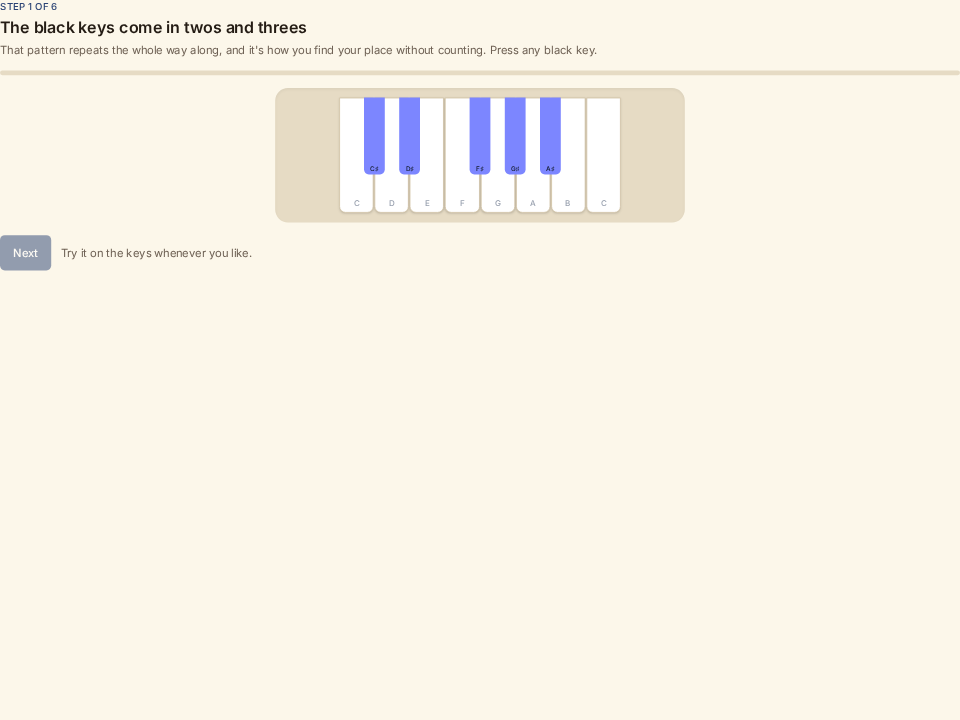
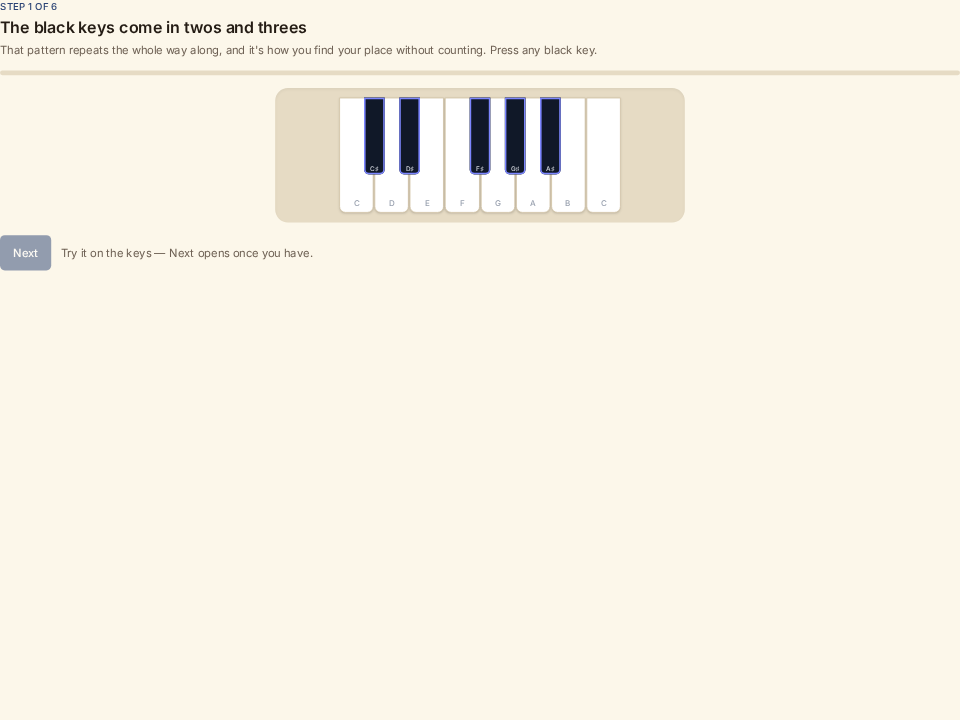
fix(today,keyboard): a real surprise, and a black key that stays black
Surprise me kept its seed in a ref that began at zero and rose only while the page
stayed mounted. It varied press to press within a visit and reset on every
arrival, so coming back from a piece offered that same piece again — the one
button whose whole promise is not knowing what you will get. Each press now draws
its own seed, the way every other surface here passes randomness into the pure
function that uses it.

An expected black key was filled with the next-note colour, which stops it being a
black key. That is tolerable mid-piece, where the key is being pointed at rather
than named, and wrong in the first lesson of all — it says "press any black key"
over a keyboard where the black keys have turned blue. The mark is a ring now, so
the instrument still looks like an instrument; the pale key name stays pale,
because the fill it had to contrast with is gone.

Changed region(s): [[0.4688, 0.1222, 0.5938, 0.2444], [0.375, 0.1222, 0.4375, 0.2444], [0.1562, 0.3361, 0.3125, 0.3667]]

diff --git a/app/components/features/homeToday.tsx b/app/components/features/homeToday.tsx
@@ -1,7 +1,7 @@
 // SPDX-FileCopyrightText: The Plinky Authors
 // SPDX-License-Identifier: AGPL-3.0-or-later
 
-import { type ReactNode, useEffect, useRef, useState } from "react";
+import { type ReactNode, useEffect, useState } from "react";
 import { useNavigate } from "react-router";
 import { arcadeConfig, currentArcadeLevel } from "../../../core/arcade";
 import { dailyNumber, todayKey } from "../../../core/daily";
@@ -325,7 +325,6 @@ export function HomeToday() {
     const known = useKnownPieces();
     const navigate = useNavigate();
     const [session, setSession] = useState<Session | null>(null);
-    const seedRef = useRef(0);
     // The heading names the moment the reader arrived, which only their own clock
     // knows. Both the prerendered document and the first client render say "Today", so
     // hydration matches; the greeting arrives a tick later, in place, on one line.
@@ -559,11 +558,15 @@ export function HomeToday() {
                 </ul>
                 <SurpriseButton
                     onClick={() => {
+                        // A fresh seed per press. It used to be a counter starting at
+                        // zero, held for as long as the page was mounted — so it rotated
+                        // while you stayed, and every arrival began at zero again. Coming
+                        // back from a piece meant being handed the same piece.
                         const pick = surprisePick(
                             session.surprise.catalogue,
                             session.surprise.grade,
                             session.surprise.mastered,
-                            seedRef.current++,
+                            Math.floor(Math.random() * 1_000_000),
                         );
                         if (pick) {
                             navigate(localizedHref(practiceHref(pick)));

diff --git a/app/components/ui/keyboard.tsx b/app/components/ui/keyboard.tsx
@@ -449,15 +449,19 @@ export function Keyboard({
             : lit.has(note)
               ? "translate-y-0.5 bg-key-held shadow-[0_0_14px_-3px] shadow-key-held"
               : expected.includes(note)
-                ? "bg-key-next"
+                // Ringed, not repainted. Filling a black key with the next-note colour
+                // stops it being a black key, which is fine mid-piece and wrong in the
+                // lesson that says "press a black key" — a beginner then hunts for
+                // something black and finds none.
+                ? `${theme.black} ring-2 ring-inset ring-key-next`
                 : theme.black;
     // A black key's name is pale because the key is nearly black — but every state that
     // means something (wrong, held, play this) fills it with a bright colour, and pale
     // grey on those is well under the contrast floor. The name follows the fill.
     const blackLabel = (note: number) =>
-        flash?.note === note || lit.has(note) || expected.includes(note)
-            ? "text-key-ink"
-            : "text-key-black-ink";
+        // The expected key keeps its black fill now, so its name keeps the pale ink that
+        // reads on black; only the states that flood the key with colour change it.
+        flash?.note === note || lit.has(note) ? "text-key-ink" : "text-key-black-ink";
 
     // The wrong note, spoken into a live region so a screen-reader player hears the miss
     // that the red flash only shows sighted players.

diff --git a/NEWS.md b/NEWS.md
@@ -341,6 +341,15 @@ the hand as well as the notes. The mapping is the same in every video you make.
 
 ## 15 August 2026
 
+**Surprise me is a surprise again.** It rotated through pieces while you stayed on the
+page, and started from the same place every time you arrived — so coming back from a piece
+handed you that same piece again. Each press now picks afresh.
+
+**The key you are asked for keeps its colour.** A black key you were meant to press was
+filled with the next-note blue, which stops it being a black key — awkward mid-piece and
+plainly wrong in the lesson that says "press any black key", where a beginner then looks
+for something black and finds none. Those keys are ringed now instead of repainted.
+
 **Stats says what a grade and a skill are.** Both numbers were explained in a tooltip —
 which a touch screen cannot open and most people never hover — so the one page whose whole
 subject is those two figures never told you what either meant. They are spelled out under
